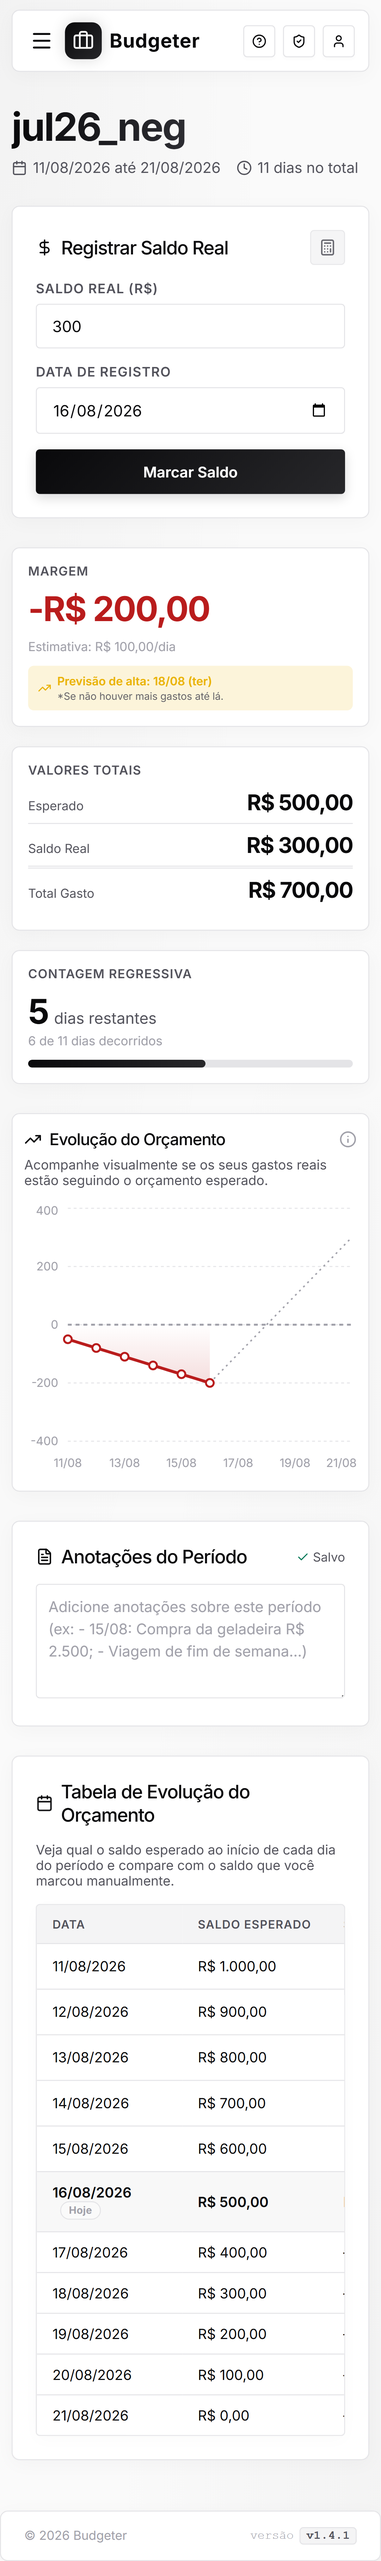
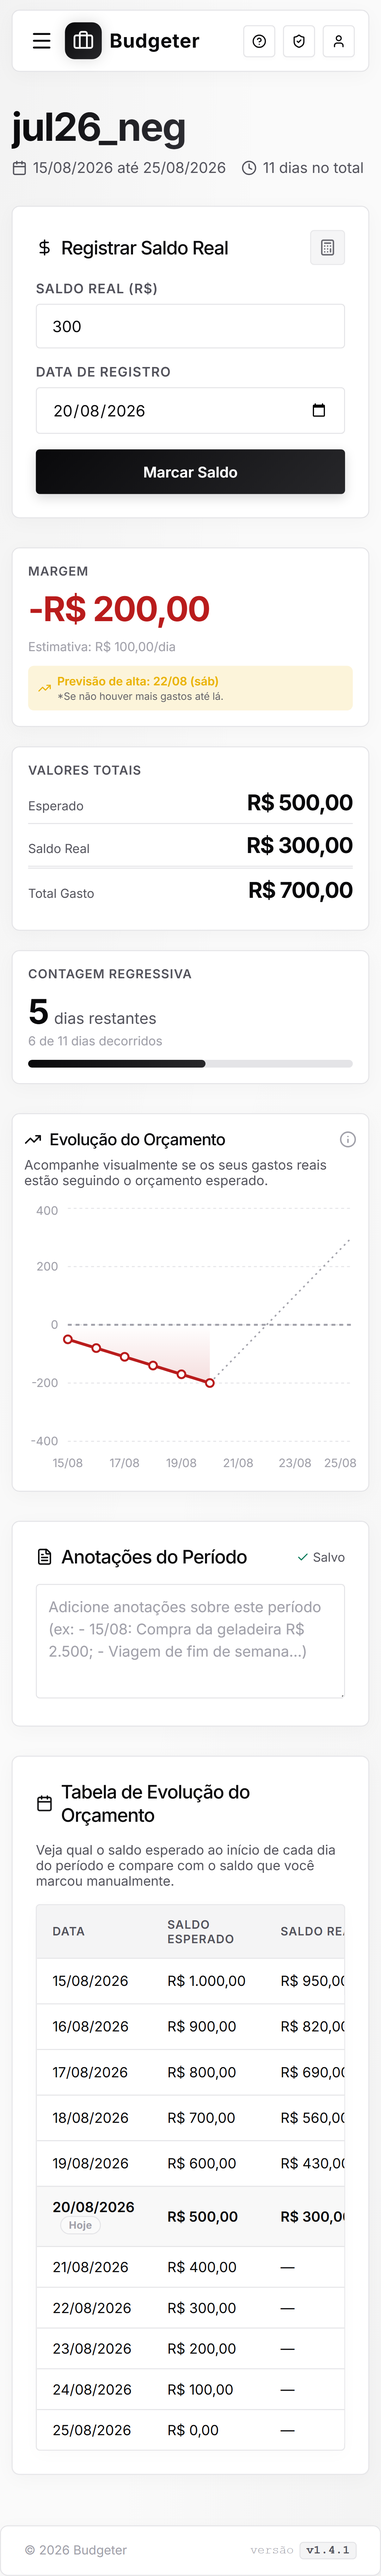
feat: adiciona projecao dia a dia na tabela e incrementa versao 1.5.0

diff --git a/src/components/PeriodDetail.tsx b/src/components/PeriodDetail.tsx
@@ -1009,10 +1009,11 @@ export const PeriodDetail: React.FC<PeriodDetailProps> = ({
           <table className="budget-table">
             <thead>
               <tr>
-                <th style={{ width: '25%' }}>Data</th>
-                <th style={{ width: '25%' }}>Saldo Esperado</th>
-                <th style={{ width: '25%' }}>Saldo Real</th>
-                <th style={{ width: '25%' }}>Margem</th>
+                <th style={{ width: '20%' }}>Data</th>
+                <th style={{ width: '20%' }}>Saldo Esperado</th>
+                <th style={{ width: '20%' }}>Saldo Real</th>
+                <th style={{ width: '20%' }}>Saldo Projetado</th>
+                <th style={{ width: '20%' }}>Margem</th>
               </tr>
             </thead>
             <tbody>
@@ -1026,13 +1027,14 @@ export const PeriodDetail: React.FC<PeriodDetailProps> = ({
                 }
                 
                 const todayStr = getLocalDateString();
+                const projectedVal = lastRecordedBalance !== null ? lastRecordedBalance : period.initialBudget;
 
                 return dates.map((dateStr, index) => {
                   const expectedBalance = period.initialBudget - index * metrics.dailyBudget;
                   const recordedBalanceForDay = period.balanceHistory?.[dateStr];
                   const hasRecord = recordedBalanceForDay !== undefined;
                   const isToday = todayStr === dateStr;
-
+                  const isPast = dateStr < todayStr;
 
                   let diffText = '—';
                   let diffColor = 'inherit';
@@ -1102,6 +1104,9 @@ export const PeriodDetail: React.FC<PeriodDetailProps> = ({
                             </button>
                           )}
                         </div>
+                      </td>
+                      <td>
+                        {!isPast ? formatCurrency(projectedVal) : '—'}
                       </td>
 
                       <td style={{ color: diffColor, fontWeight: diffWeight as any }}>

diff --git a/tests/table-projection.spec.ts b/tests/table-projection.spec.ts
@@ -1,0 +1,39 @@
+import { test, expect } from '@playwright/test';
+
+test.describe('Coluna de Saldo Projetado na Tabela', () => {
+  test('deve exibir a coluna Saldo Projetado, mostrando traço para dias passados e saldo projetado para dias hoje/futuros', async ({ page }) => {
+    const mockPeriod = {
+      id: "test-table-projection",
+      name: "Teste Tabela Projeção",
+      startDate: "2026-07-01",
+      endDate: "2026-07-31",
+      initialBudget: 4000,
+      finalBudget: 500,
+      currentBalance: 2000,
+      currentBalanceDate: "2026-07-15",
+      balanceHistory: {
+        "2026-07-01": 4000,
+        "2026-07-15": 2000
+      },
+      createdAt: "2026-07-01T10:00:00Z",
+      userId: "teste"
+    };
+
+    await page.addInitScript((data) => {
+      window.localStorage.setItem('budgeter_periods', JSON.stringify([data]));
+      window.localStorage.setItem('budgeter_selected_period_id', data.id);
+      window.localStorage.setItem('lgpd_consent_accepted', 'true');
+    }, mockPeriod);
+
+    await page.goto('/');
+
+    // Verifica se o cabeçalho "Saldo Projetado" está visível
+    const thProjetado = page.locator('th', { hasText: 'Saldo Projetado' });
+    await expect(thProjetado).toBeVisible();
+
+    // Na tabela, verifica que a coluna existe
+    const tableHeaderCols = page.locator('table.budget-table th');
+    await expect(tableHeaderCols).toHaveCount(5);
+    await expect(tableHeaderCols.nth(3)).toContainText('Saldo Projetado');
+  });
+});
